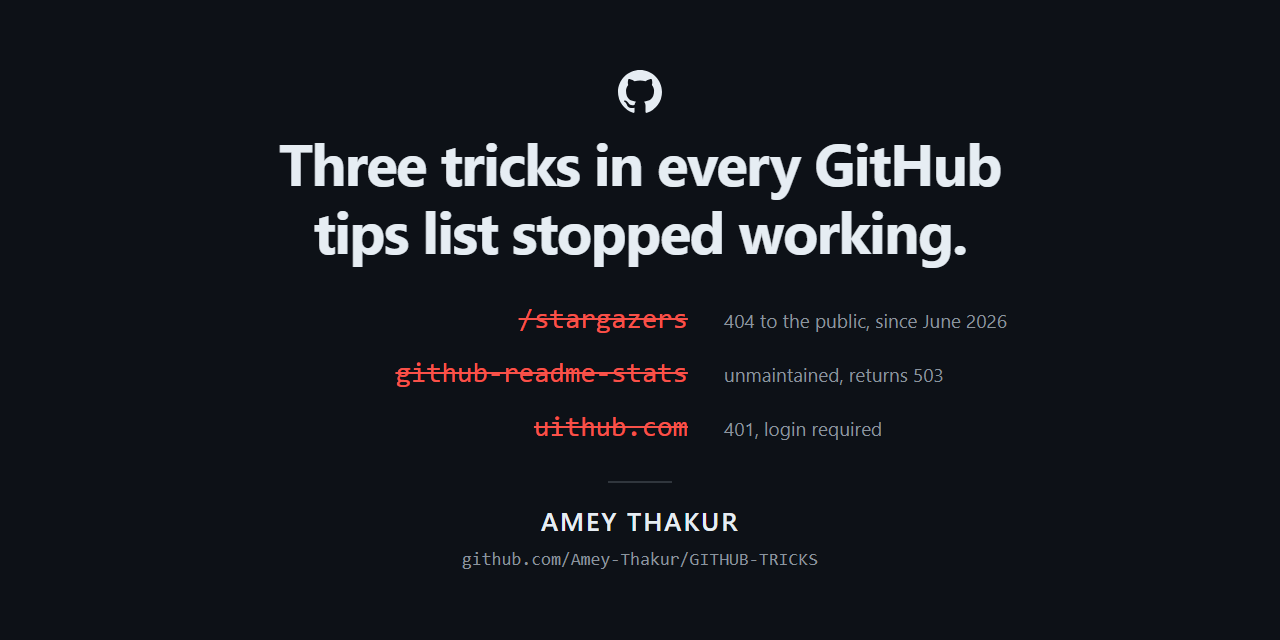
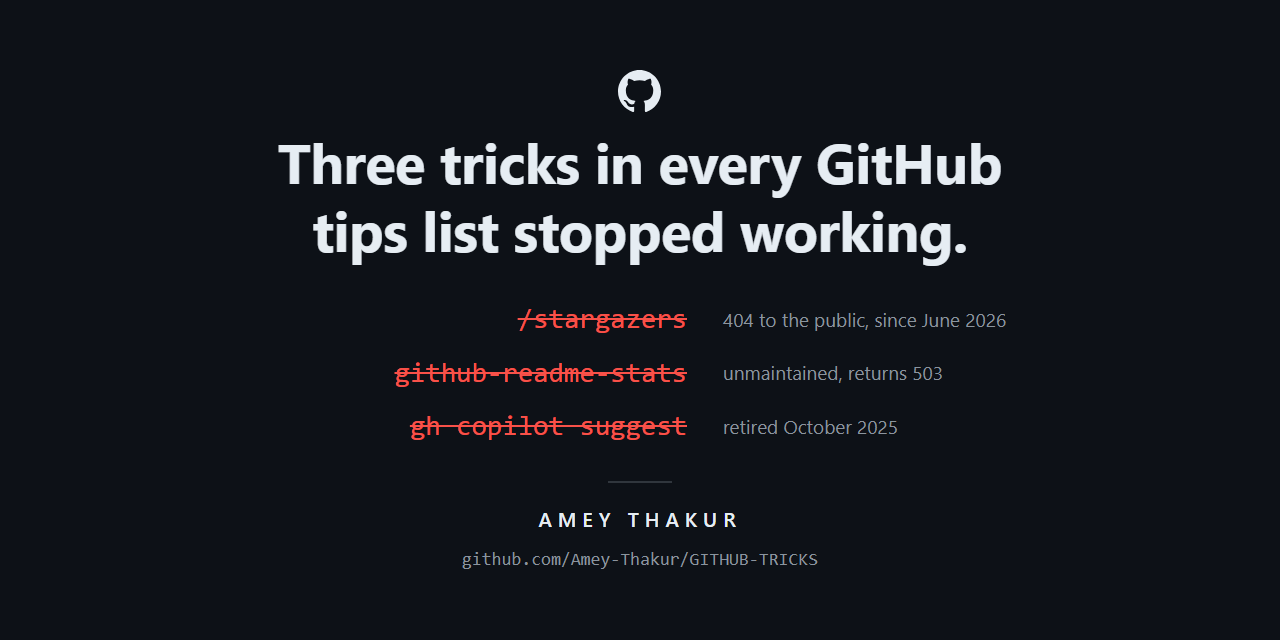
GitHub Tricks

diff --git a/README.md b/README.md
@@ -168,7 +168,7 @@ curl -X PURGE https://camo.githubusercontent.com/HASH
 <br>
 
 > [!IMPORTANT]
-> `/stargazers` now returns 404 to the public and `github-readme-stats` is unmaintained. [Everything else that quietly died](#dead-tricks).
+> `/stargazers` now returns 404 to the public, `github-readme-stats` is unmaintained, and `gh copilot suggest` was retired. [Everything else that quietly died](#dead-tricks).
 
 <br>
 
@@ -1448,7 +1448,7 @@ Every list still repeats these. None of them work.
 
 <div align="center">
 
-<img src=".github/social/dead-tricks.png" alt="Social card: GitHub tricks that stopped working, struck through. The table below is the current list" width="860">
+<img src=".github/social/dead-tricks.png" alt="Three dead tricks struck through: /stargazers 404s, github-readme-stats returns 503, gh copilot suggest was retired" width="860">
 
 </div>
 
